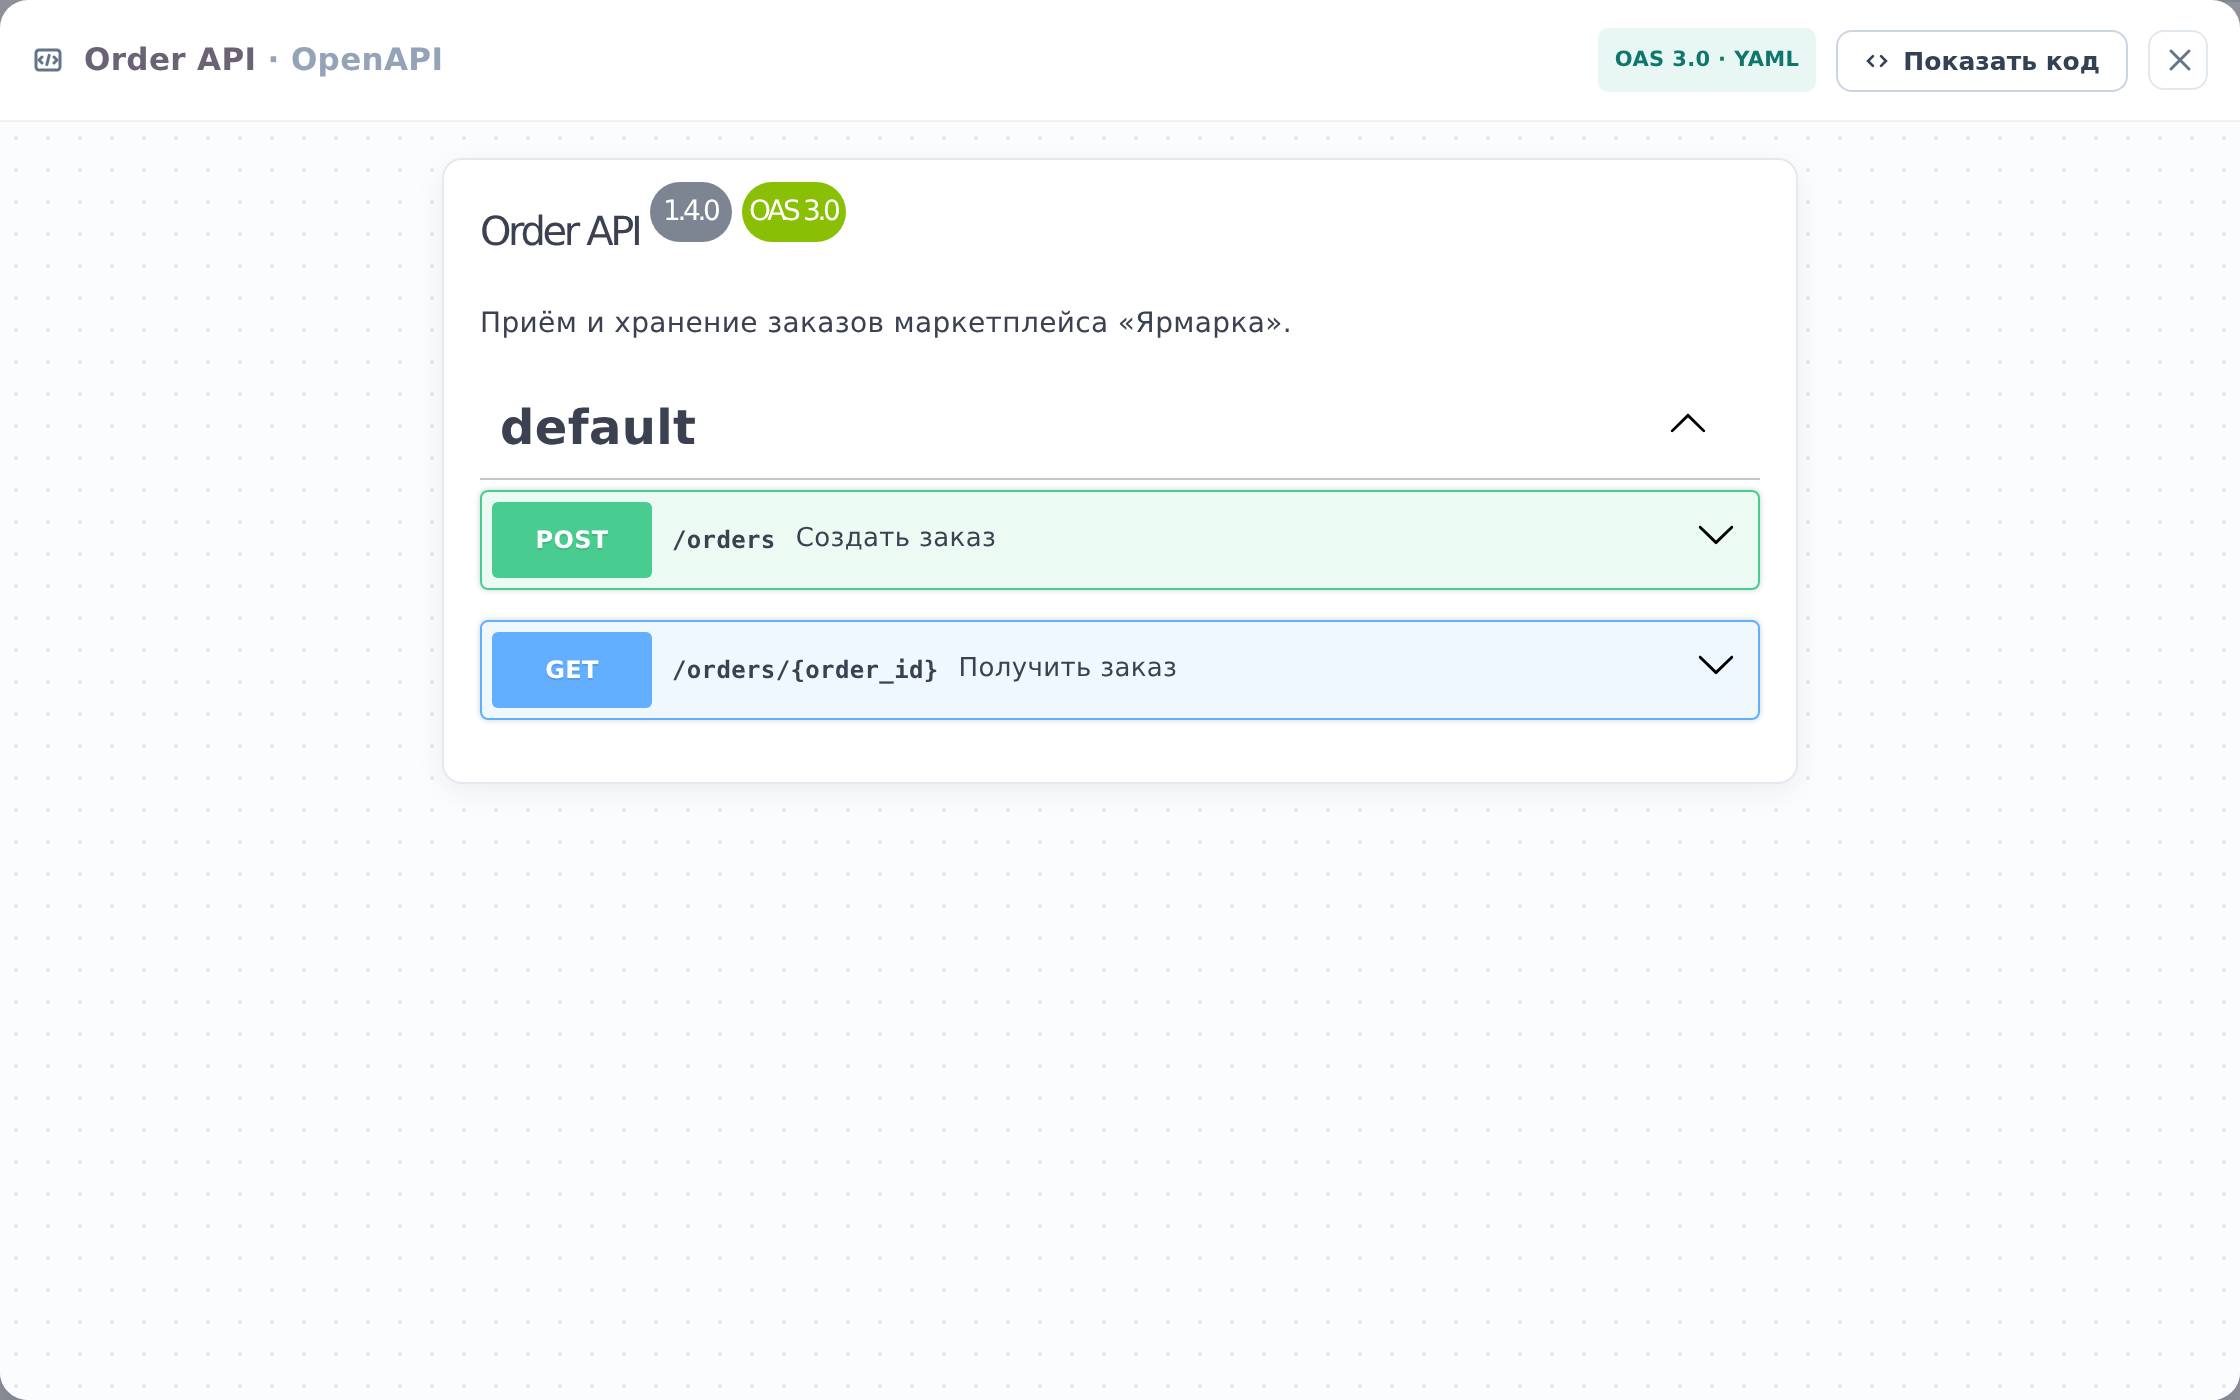
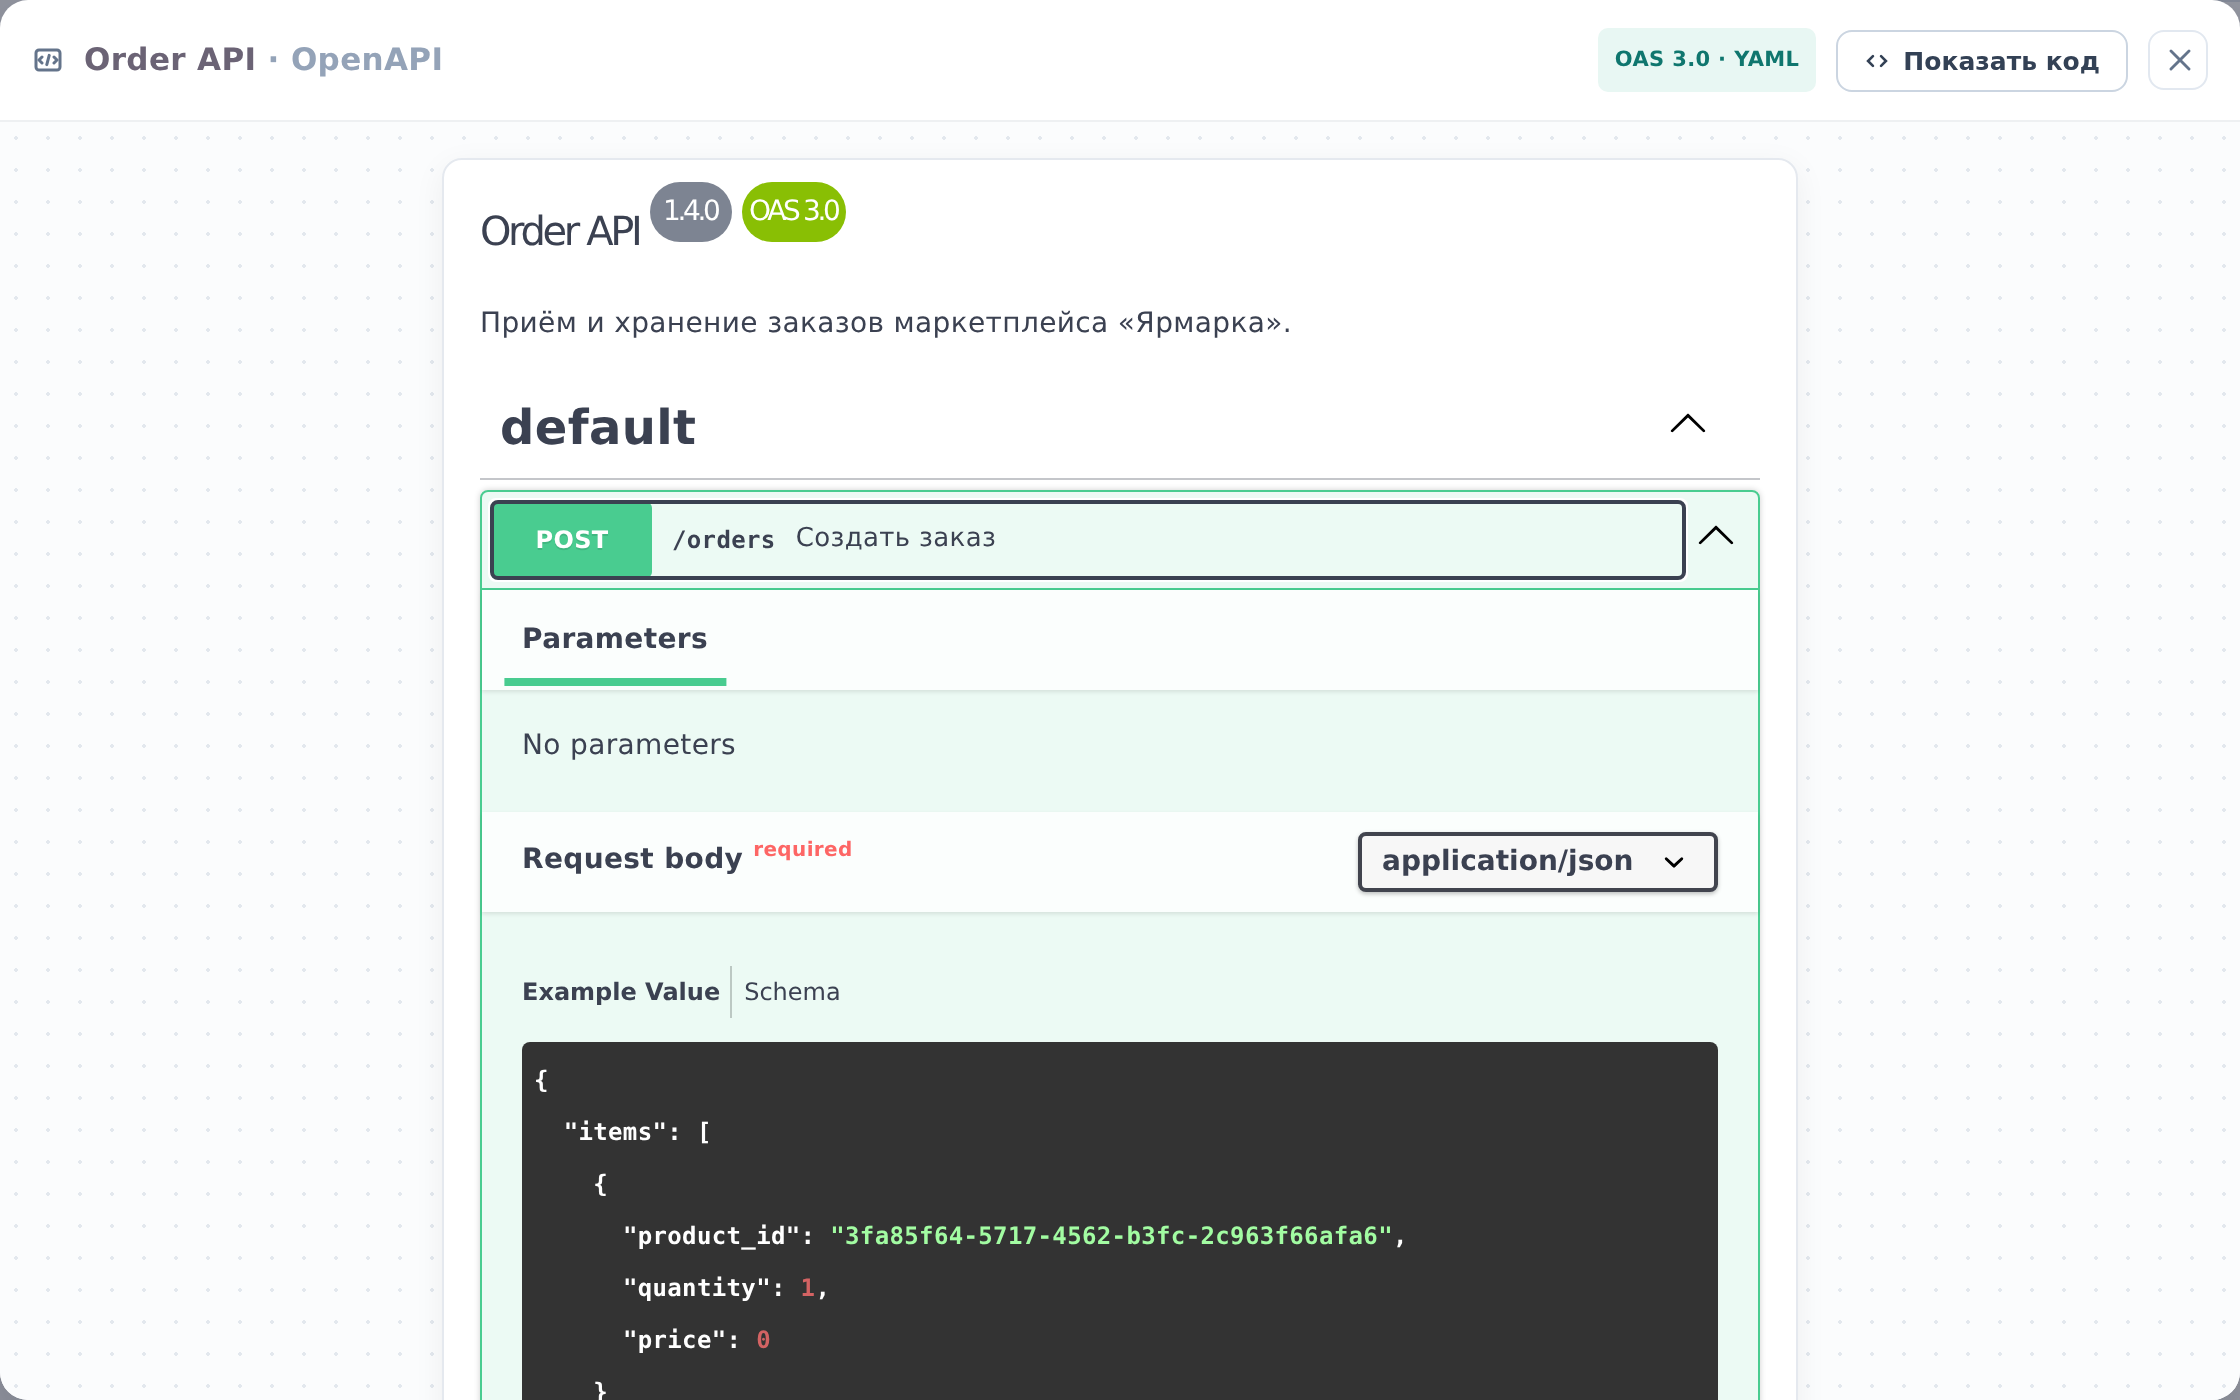
docs: «Просмотреть API сервиса» — снимок окна с раскрытым эндпоинтом (пример тела запроса починен в продукте, archmap cca71cf5)

diff --git a/content/user/api.md b/content/user/api.md
@@ -16,7 +16,7 @@ order: 6
 3. В окне нажмите на нужный эндпоинт. Раскроются его параметры, тело запроса и ответы.
 4. Закройте окно крестиком в правом верхнем углу или клавишей <kbd>Esc</kbd>.
 
-![Окно спецификации](../images/api-viewer.png "Спецификация Order API: эндпоинты создания и получения заказа")
+![Окно спецификации](../images/api-viewer.png "Спецификация Order API: раскрыт эндпоинт создания заказа")
 
 ::: note
 Если раздела **OpenAPI** на странице сервиса нет, спецификация для него не описана.
